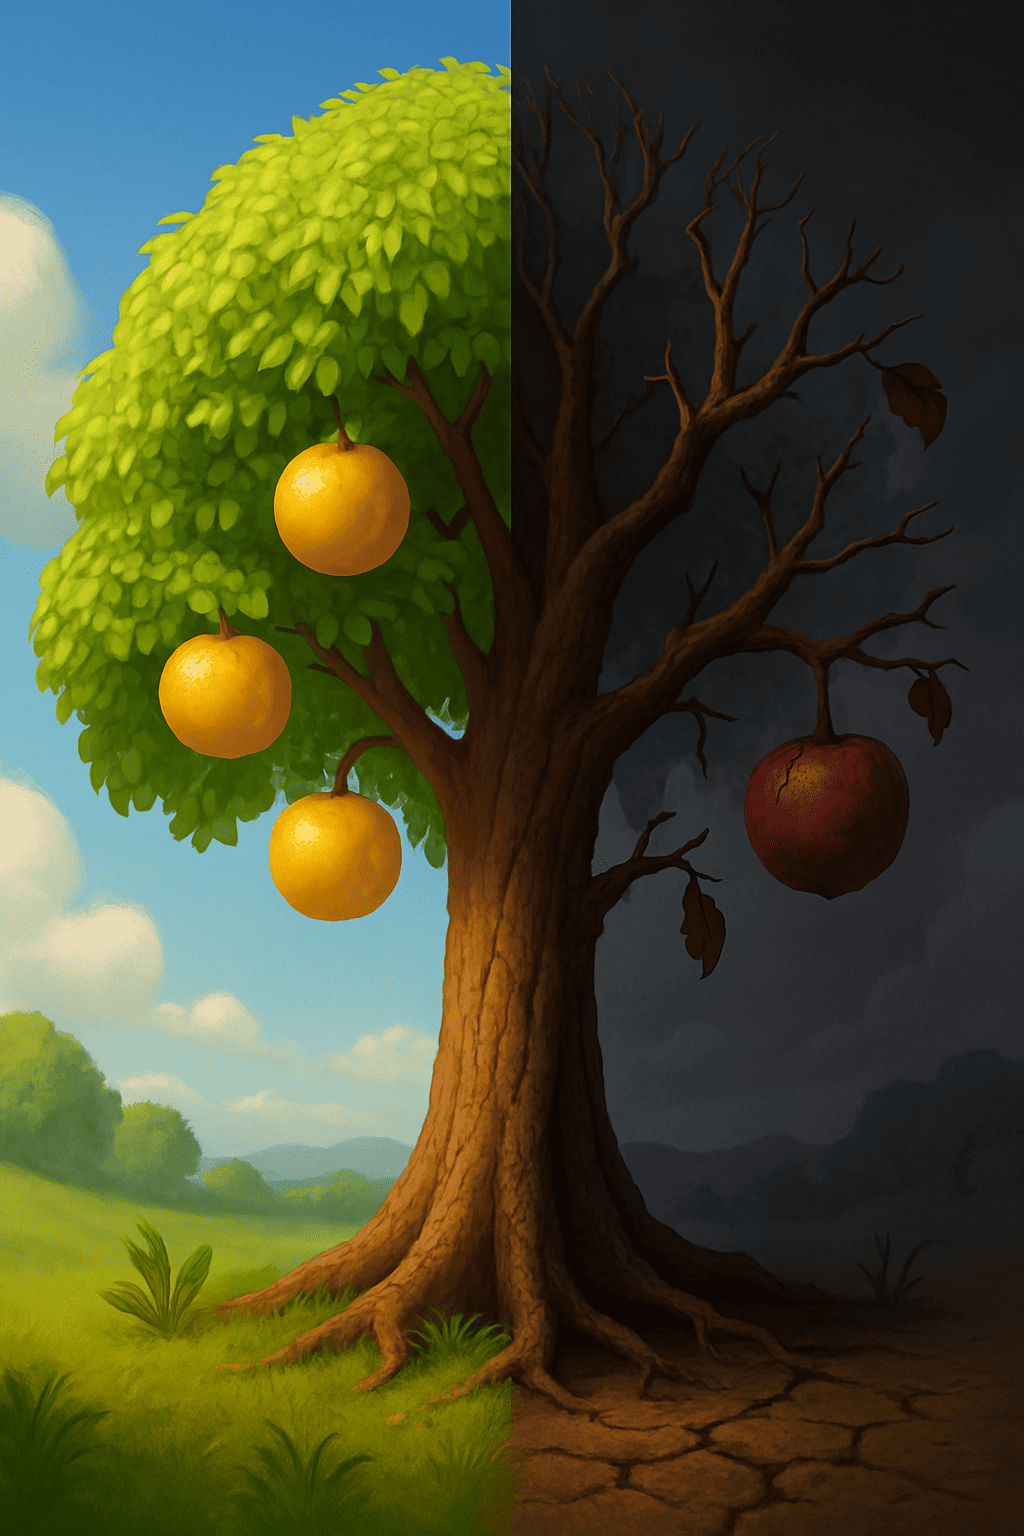
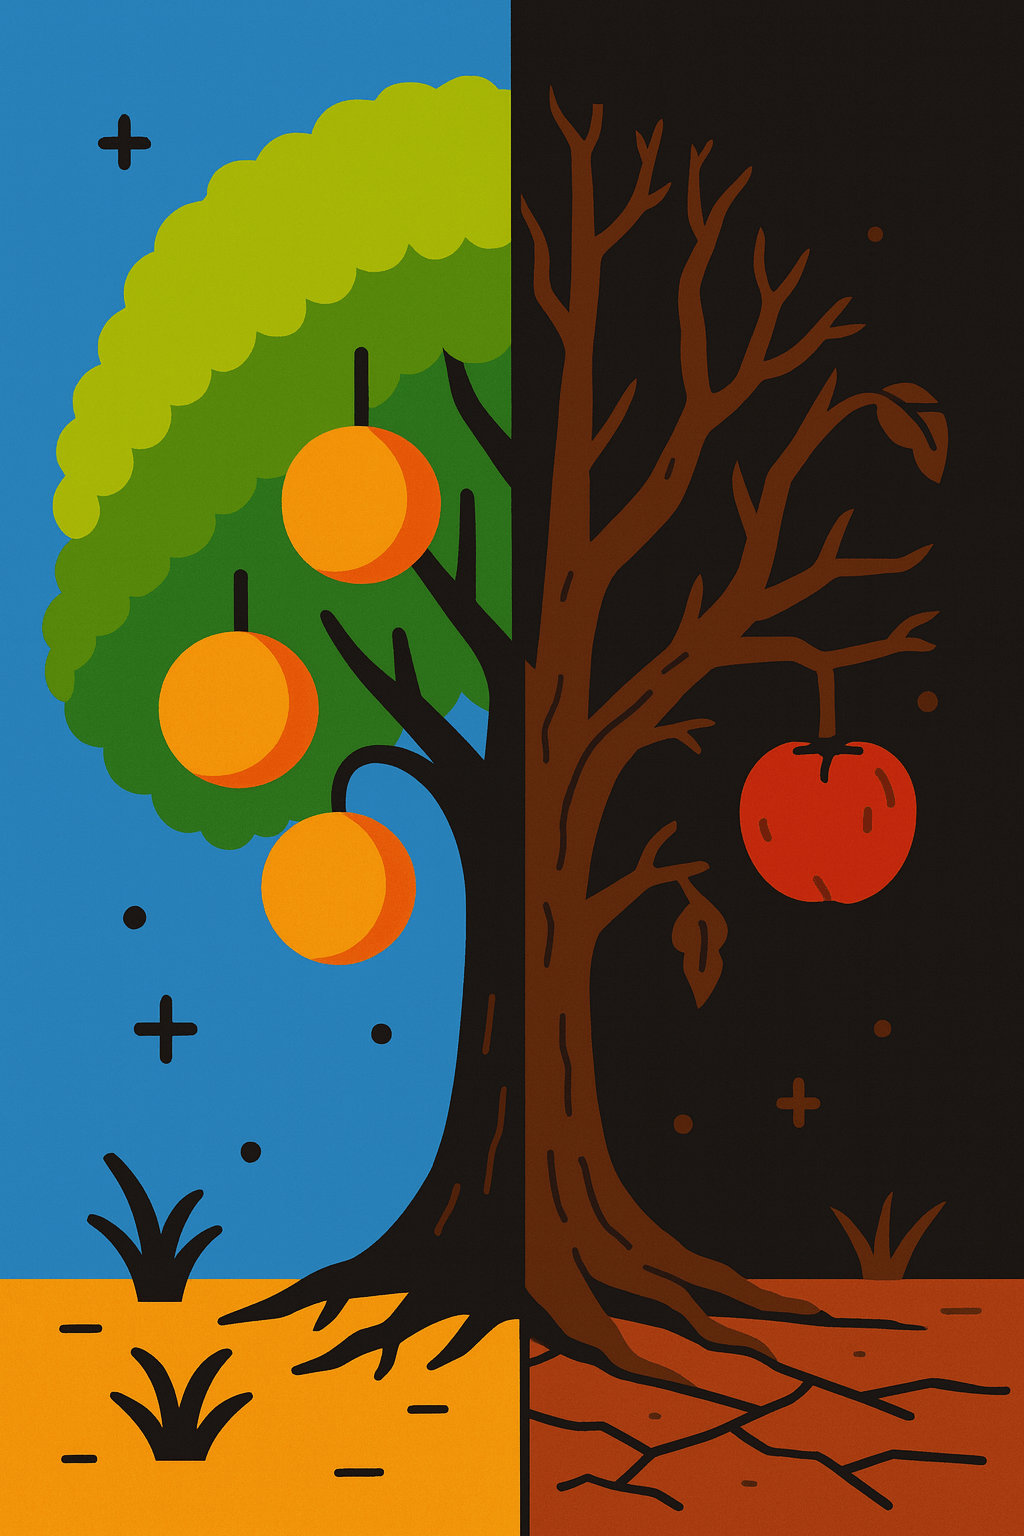
update images

diff --git a/ios/Runner/AppDelegate.swift b/ios/Runner/AppDelegate.swift
@@ -1,7 +1,7 @@
 import UIKit
 import Flutter
 
-@UIApplicationMain
+@main
 @objc class AppDelegate: FlutterAppDelegate {
   override func application(
     _ application: UIApplication,
